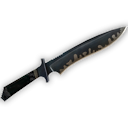
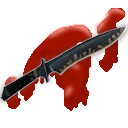
Gameplay Update 1.14
-Added Shotgun Blast spell
	-Shoots 5 bullets in a spread, each bullet does a maximum of 20
-Units now start following move cooldowns
-Buffed Dio's spell cast rate
-Changed Knife Throw and Knife Volley's icons
	-Added blood in the background
-Increased the Knife's projectile speed from 18 to 20
-Reduced Knife Volley's total knife throw count by 3 (1 in each row)
-Bleeding from knives' slow reduced from 10% to 5%
-Fixed Time Dilation applying the wrong amount of speed bonus to units
-Increased the speed of the Vulcan projectile from 24 to 28

Non-gameplay changes:
-Projectiles now accept non-integer vectors as velocity
-Minor text fixes
	-But actually fixed an issue where if the first word in a text exceeded
the size of the box it was in it would crash
-Added a particle effect to Vampiric Slash that makes it look like it's
stealing life

diff --git a/SpellWars/src/unit/Dio.java b/SpellWars/src/unit/Dio.java
@@ -14,7 +14,7 @@ public class Dio extends Unit {
 	public static final double HP_PER_LEVEL = 75;
 	public static final double SPEED = 1.2;
 	public static final double SPEED_PER_LEVEL = 0.10;
-	public static final int MOVES_PER_FIRE = 10;
+	public static final int MOVES_PER_FIRE = 9;
 	public static final int MOVES_VARIATION = 5;
 	public static final float FIRE_FOLLOW_CHANCE = 0.5f;
 	public static final float COOLDOWN_MULT_PER_LEVEL = 0.99f;
@@ -84,6 +84,7 @@ public class Dio extends Unit {
 				this.aimAtTrackedUnit();
 				this.castSpell(new ZaWarudo(this));
 				this.zaWarudoTimer = (float)(ZA_WARUDO_COOLDOWN * Math.pow(COOLDOWN_MULT_PER_LEVEL, this.level)) + ZaWarudo.STOP_TIME;
+				this.knifeThrowTimer = 0;
 			}
 		} else {
 			if(this.knifeThrowTimer <= 0 && Math.random() < KNIFE_THROW_CHANCE_ZA_WARUDO) {
@@ -98,6 +99,7 @@ public class Dio extends Unit {
 			}
 			else if(Math.random() < ZA_WARUDO_FOLLOW_CHANCE) {
 				this.aimAtTrackedUnit();
+				this.putMoveCooldown();
 			}
 		}
 		if(this.moves <= 0) {
@@ -107,7 +109,7 @@ public class Dio extends Unit {
 			this.castSpell(SpellSelector.getRandomSpell(this));
 			this.refreshMoves();
 		} else {
-			this.moveRandom4(false, false, true, true, true, false);
+			this.moveRandom4(true, false, true, true, true, false);
 		}
 	}
 	@Override
@@ -150,23 +152,23 @@ public class Dio extends Unit {
 		if(this.unitToTrack != null) {
 			if(this.unitToTrack.gridLoc.y < this.gridLoc.y) { //move up
 				if(this.canMoveToLoc(Point.add(this.gridLoc, new Point(0, -1)))) {
-					this.move(GameMap.ID_UP, false, false, true, true, true, false);
+					this.move(GameMap.ID_UP, true, false, true, true, true, false);
 				} else if(this.canMoveToLoc(Point.add(this.gridLoc, new Point(-1, -1)))) { //look into the future, see if there's obstruction
-					this.move(GameMap.ID_LEFT, false, false, true, true, true, false); //move off to the side
+					this.move(GameMap.ID_LEFT, true, false, true, true, true, false); //move off to the side
 				} else if(this.canMoveToLoc(Point.add(this.gridLoc, new Point(1, -1)))) {
-					this.move(GameMap.ID_RIGHT, false, false, true, true, true, false);
+					this.move(GameMap.ID_RIGHT, true, false, true, true, true, false);
 				} else {
-					this.moveRandom4(false, false, true, true, true, false);
+					this.moveRandom4(true, false, true, true, true, false);
 				}
 			} else if(this.unitToTrack.gridLoc.y > this.gridLoc.y) { //move down
 				if(this.canMoveToLoc(Point.add(this.gridLoc, new Point(0, 1)))) {
-					this.move(GameMap.ID_DOWN, false, false, true, true, true, false);
+					this.move(GameMap.ID_DOWN, true, false, true, true, true, false);
 				} else if(this.canMoveToLoc(Point.add(this.gridLoc, new Point(-1, 1)))) { //look into the future, see if there's obstruction
-					this.move(GameMap.ID_LEFT, false, false, true, true, true, false); //move off to the side
+					this.move(GameMap.ID_LEFT, true, false, true, true, true, false); //move off to the side
 				} else if(this.canMoveToLoc(Point.add(this.gridLoc, new Point(1, 1)))) {
-					this.move(GameMap.ID_RIGHT, false, false, true, true, true, false);
+					this.move(GameMap.ID_RIGHT, true, false, true, true, true, false);
 				} else {
-					this.moveRandom4(false, false, true, true, true, false);
+					this.moveRandom4(true, false, true, true, true, false);
 				}
 			}
 		}

diff --git a/SpellWars/src/spell/VampiricSlash.java b/SpellWars/src/spell/VampiricSlash.java
@@ -60,7 +60,8 @@ public class VampiricSlash extends Spell {
 			for(int x = 1; x <= length; x++) {
 				Point slashLoc = Point.add(this.owner.gridLoc, Point.add(new Point(0, y), Point.scale(GameMap.getFuturePoint(new Point(), (char)this.owner.direction), x)));
 				if(this.getMap().pointIsInGrid(slashLoc) && this.getMap().getPanelAt(slashLoc).unitStandingOnPanel != null && this.getMap().getPanelAt(slashLoc).unitStandingOnPanel.teamID != this.owner.teamID) {
-					this.getMap().getPanelAt(slashLoc).unitStandingOnPanel.doDamage(this.damage * this.owner.finalDamageModifier);
+					Unit target = this.getMap().getPanelAt(slashLoc).unitStandingOnPanel;
+					target.doDamage(this.damage * this.owner.finalDamageModifier);
 					this.owner.doDamage(-this.damage * this.owner.finalDamageModifier);
 					ParticleEmitter pe = new ParticleEmitter(Point.add(this.owner.getLoc(), new Point(0, -this.owner.getDrawHeight())), EmitterTypes.CIRCLE_DIRECTION, "res/particle_heal.png", true, /*point, emitter type, image path, alphaDecay*/
 							0.4f, 0.6f, /*particle start scale*/
@@ -71,6 +72,18 @@ public class VampiricSlash extends Spell {
 							1000, 1250, /*min and max launch speed*/
 							0, 3, /*emitter lifetime, emission rate (if emitter lifetime is 0, then it becomes instant and emission rate becomes number of particles)*/
 							0, 50, 90, 0); /*keyvalues*/
+					this.getMap().addParticleEmitter(pe);
+					float direction = (float)Point.getDirectionDeg(Point.add(target.getLoc(), new Point(0, -target.getDrawHeight())), Point.add(this.owner.getLoc(), new Point(0, -this.owner.getDrawHeight())));
+					float distance = (float)Point.getDistance(Point.add(target.getLoc(), new Point(0, -target.getDrawHeight())), Point.add(this.owner.getLoc(), new Point(0, -this.owner.getDrawHeight())));
+					pe = new ParticleEmitter(Point.add(target.getLoc(), new Point(0, -target.getDrawHeight())), EmitterTypes.CIRCLE_DIRECTION, "res/particle_genericRed.png", true, /*point, emitter type, image path, alphaDecay*/
+							7.2f, 7.2f, /*particle start scale*/
+							2.4f, 2.4f, /*particle end scale*/
+							0.5f, /*drag*/
+							0, 0, /*rotational velocity*/
+							ANIMATION_DURATION, ANIMATION_DURATION, /*min and max lifetime*/
+							distance / ANIMATION_DURATION, distance / ANIMATION_DURATION, /*min and max launch speed*/
+							0, 3, /*emitter lifetime, emission rate (if emitter lifetime is 0, then it becomes instant and emission rate becomes number of particles)*/
+							0, 50, direction, 0); /*keyvalues*/
 					this.getMap().addParticleEmitter(pe);
 				}
 			}

diff --git a/SpellWars/src/unit/Mei.java b/SpellWars/src/unit/Mei.java
@@ -77,7 +77,7 @@ public class Mei extends Unit {
 	public void onThink() {
 		this.trackUnit();
 		if(this.state == 1) {
-			this.moveRandom4(false, false, true, true, true, false);
+			this.moveRandom4(true, false, true, true, true, false);
 			if(this.normalSpellTimer <= 0 && Math.random() < NORMAL_SPELL_CHANCE) {
 				this.castSpell(SpellSelector.getRandomSpell(this));
 				this.normalSpellTimer = (float)(NORMAL_SPELL_COOLDOWN * Math.pow(COOLDOWN_MULT_PER_LEVEL, this.level));
@@ -176,23 +176,23 @@ public class Mei extends Unit {
 		if(this.unitToTrack != null) {
 			if(this.unitToTrack.gridLoc.y < this.gridLoc.y) { //move up
 				if(this.canMoveToLoc(Point.add(this.gridLoc, new Point(0, -1)))) {
-					this.move(GameMap.ID_UP, false, false, true, true, true, false);
+					this.move(GameMap.ID_UP, true, false, true, true, true, false);
 				} else if(this.canMoveToLoc(Point.add(this.gridLoc, new Point(-1, -1)))) { //look into the future, see if there's obstruction
-					this.move(GameMap.ID_LEFT, false, false, true, true, true, false); //move off to the side
+					this.move(GameMap.ID_LEFT, true, false, true, true, true, false); //move off to the side
 				} else if(this.canMoveToLoc(Point.add(this.gridLoc, new Point(1, -1)))) {
-					this.move(GameMap.ID_RIGHT, false, false, true, true, true, false);
+					this.move(GameMap.ID_RIGHT, true, false, true, true, true, false);
 				} else {
-					this.moveRandom4(false, false, true, true, true, false);
+					this.moveRandom4(true, false, true, true, true, false);
 				}
 			} else if(this.unitToTrack.gridLoc.y > this.gridLoc.y) { //move down
 				if(this.canMoveToLoc(Point.add(this.gridLoc, new Point(0, 1)))) {
-					this.move(GameMap.ID_DOWN, false, false, true, true, true, false);
+					this.move(GameMap.ID_DOWN, true, false, true, true, true, false);
 				} else if(this.canMoveToLoc(Point.add(this.gridLoc, new Point(-1, 1)))) { //look into the future, see if there's obstruction
-					this.move(GameMap.ID_LEFT, false, false, true, true, true, false); //move off to the side
+					this.move(GameMap.ID_LEFT, true, false, true, true, true, false); //move off to the side
 				} else if(this.canMoveToLoc(Point.add(this.gridLoc, new Point(1, 1)))) {
-					this.move(GameMap.ID_RIGHT, false, false, true, true, true, false);
+					this.move(GameMap.ID_RIGHT, true, false, true, true, true, false);
 				} else {
-					this.moveRandom4(false, false, true, true, true, false);
+					this.moveRandom4(true, false, true, true, true, false);
 				}
 			}
 		}

diff --git a/SpellWars/src/spell/TimeDilation.java b/SpellWars/src/spell/TimeDilation.java
@@ -88,18 +88,18 @@ public class TimeDilation extends Spell {
 		for(Unit u : this.getMap().getUnits()) {
 			if(!u.hasStatusEffect(StatusTimeDilation.ID)) {
 				if(u.teamID == this.owner.teamID) {
-					u.addStatusEffect(new StatusTimeDilation(u, ALLIED_SPEED_MULT * (float)Math.pow(StatusTimeDilation.SPEED_DECAY_PER_INTERVAL, (tickTimer/StatusTimeDilation.UPDATE_INTERVAL)), INTERVAL - tickTimer, 1));
+					u.addStatusEffect(new StatusTimeDilation(u, (ALLIED_SPEED_MULT - 1) * (float)Math.pow(StatusTimeDilation.SPEED_DECAY_PER_INTERVAL, (tickTimer/StatusTimeDilation.UPDATE_INTERVAL)) + 1, INTERVAL - tickTimer, 1));
 				} else {
-					u.addStatusEffect(new StatusTimeDilation(u, ENEMY_SPEED_MULT * (float)Math.pow(StatusTimeDilation.SPEED_DECAY_PER_INTERVAL, (tickTimer/StatusTimeDilation.UPDATE_INTERVAL)), INTERVAL - tickTimer, 1));
+					u.addStatusEffect(new StatusTimeDilation(u, (ENEMY_SPEED_MULT - 1) * (float)Math.pow(StatusTimeDilation.SPEED_DECAY_PER_INTERVAL, (tickTimer/StatusTimeDilation.UPDATE_INTERVAL)) + 1, INTERVAL - tickTimer, 1));
 				}
 			}
 		}
 		for(Projectile p : this.getMap().getProjectiles()) {
 			if(!p.hasStatusEffect(StatusTimeDilation.ID)) {
 				if(p.teamID == this.owner.teamID) {
-					p.addStatusEffect(new StatusTimeDilation(p, ALLIED_SPEED_MULT * (float)Math.pow(StatusTimeDilation.SPEED_DECAY_PER_INTERVAL, (tickTimer/StatusTimeDilation.UPDATE_INTERVAL)), INTERVAL - tickTimer, 1));
+					p.addStatusEffect(new StatusTimeDilation(p, (ALLIED_SPEED_MULT - 1) * (float)Math.pow(StatusTimeDilation.SPEED_DECAY_PER_INTERVAL, (tickTimer/StatusTimeDilation.UPDATE_INTERVAL)) + 1, INTERVAL - tickTimer, 1));
 				} else {
-					p.addStatusEffect(new StatusTimeDilation(p, ENEMY_SPEED_MULT * (float)Math.pow(StatusTimeDilation.SPEED_DECAY_PER_INTERVAL, (tickTimer/StatusTimeDilation.UPDATE_INTERVAL)), INTERVAL - tickTimer, 1));
+					p.addStatusEffect(new StatusTimeDilation(p, (ENEMY_SPEED_MULT - 1) * (float)Math.pow(StatusTimeDilation.SPEED_DECAY_PER_INTERVAL, (tickTimer/StatusTimeDilation.UPDATE_INTERVAL)) + 1, INTERVAL - tickTimer, 1));
 				}
 			}
 		}

diff --git a/SpellWars/src/spell/ShotgunBlast.java b/SpellWars/src/spell/ShotgunBlast.java
@@ -1,0 +1,47 @@
+package spell;
+
+import mechanic.GameMap;
+import mechanic.Point;
+import particlesystem.EmitterTypes;
+import particlesystem.ParticleEmitter;
+import projectile.Projectile;
+import projectile.ShotgunBlastProjectile;
+import unit.Unit;
+
+public class ShotgunBlast extends Spell {
+	static final Point[] MOVEVEC = {new Point(1, 0),
+									new Point(1, 2.0/3),
+									new Point(1, -2.0/3),
+									new Point(1, 1.0/5),
+									new Point(1, -1.0/5)};
+	public static final double DAMAGE = 20;
+	public static final double DAMAGE_REDUCTION_PER_THINK = 5;
+	public static final double SPEED = 18;
+	public ShotgunBlast(Unit owner) {
+		super(owner, 0, 0.5f, "Shotgun Blast", "Shoots multiple bullets in a spread, bullets deal less damage the farther they go", "res/spell/shotgunblast.png", false);
+	}
+	public void onActivate() {
+		for(Point vec : MOVEVEC) {
+			Point moveVec = Point.clone(vec);
+			if(this.owner.direction == GameMap.ID_LEFT) {
+				moveVec.x *= -1;
+			}
+			Projectile p = new ShotgunBlastProjectile(DAMAGE * this.owner.finalDamageModifier, SPEED / Point.getDistance(new Point(), moveVec), moveVec, this.owner.gridLoc, this.owner.teamID, DAMAGE_REDUCTION_PER_THINK);
+			this.getMap().addGameElement(p);
+		}
+		float direction = 0;
+		if(this.owner.direction == GameMap.ID_LEFT) {
+			direction = 180;
+		}
+		ParticleEmitter pe = new ParticleEmitter(Point.add(this.owner.getLoc(), new Point(0, -28)), EmitterTypes.POINT_DIRECTION, "res/particle_genericWhite.png", false, //point/parent, emitter type, image path, alphaDecay
+				6.5f, 2.5f, //particle start scale
+				0.0f, 0.0f, //particle end scale
+				16.5f, //drag
+				0, 0, //rotational velocity
+				0.1f, 0.45f, //min and max lifetime
+				200, 12200, //min and max launch speed
+				0, 18, //emitter lifetime, emission rate (if emitter lifetime is 0, then it becomes instant and emission rate becomes number of particles, if emitter lifetime is -1, then it lasts forever)
+				direction, 40, 0, 0); //keyvalues
+		this.getMap().addParticleEmitter(pe);
+	}
+}

diff --git a/SpellWars/src/projectile/Projectile.java b/SpellWars/src/projectile/Projectile.java
@@ -228,9 +228,9 @@ public class Projectile extends GameElement {
 	}
 	public Point getGridLoc() {
 		if(1 - this.thinkTimer < 0) {
-			return this.gridLoc;
+			return Point.roundToNearestInteger(this.gridLoc);
 		} else if(1 - this.thinkTimer > 1) {
-			return this.futureLoc;
+			return Point.roundToNearestInteger(this.futureLoc);
 		} else {
 			return Point.roundToNearestInteger(Point.interpolate(this.gridLoc, this.futureLoc, 1 - this.thinkTimer));
 		}
@@ -336,7 +336,7 @@ public class Projectile extends GameElement {
 			default:
 				break;
 			}
-			Point futurepoint = Point.add(this.getGridLoc(), moveVec);
+			Point futurepoint = Point.add(this.futureLoc, moveVec); //this.futureLoc was once this.getGridLoc()
 			//if(this.getMap().pointIsInGrid(futurepoint)) {
 				this.futureLoc = futurepoint;
 				if(putCooldown) {
@@ -352,7 +352,7 @@ public class Projectile extends GameElement {
 	}
 	public void move(Point moveVec, boolean respectCooldown, boolean putCooldown) {
 		if(((respectCooldown && this.moveCooldown <= 0) || !respectCooldown) && !this.isPaused()) {
-			Point futurepoint = Point.add(this.getGridLoc(), moveVec);
+			Point futurepoint = Point.add(this.futureLoc, moveVec);
 			//if(this.getMap().pointIsInGrid(futurepoint)) {
 				this.futureLoc = futurepoint;
 				if(putCooldown) {

diff --git a/SpellWars/src/ui/SpellSelector.java b/SpellWars/src/ui/SpellSelector.java
@@ -35,6 +35,7 @@ import spell.RechargingBarrier;
 import spell.ReflectBarrier;
 import spell.Regenerate;
 import spell.SentryGun;
+import spell.ShotgunBlast;
 import spell.Spell;
 import spell.Stun;
 import spell.TestFireball;
@@ -393,11 +394,12 @@ public class SpellSelector extends UIElement {
 				new ElectroBolt(unit),
 				new Vulcan(unit),
 				new VampiricSlash(unit),
+				new ShotgunBlast(unit),
 		};
 		double[] weights = {0.45, //TRUMP WALL
-				0.4, //reflect barrier
+				0.3, //reflect barrier
 				0.55, //area grab
-				0.5, //recharging barrier
+				0.45, //recharging barrier
 				0.7, //time bomb
 				1.1, //forge spirit
 				0.75, //hell rain
@@ -423,6 +425,7 @@ public class SpellSelector extends UIElement {
 				1.0, //electro bolt
 				1.4, //vulcan
 				0.7, //vampiric slash
+				0.8, //shotgun blast
 		};
 		if(spells.length != weights.length) {
 			System.out.println("WARNING: SPELLS AND WEIGHTS MISMATCH");

diff --git a/SpellWars/src/projectile/ShotgunBlastProjectile.java b/SpellWars/src/projectile/ShotgunBlastProjectile.java
@@ -1,0 +1,22 @@
+package projectile;
+
+import mechanic.Point;
+
+public class ShotgunBlastProjectile extends Projectile {
+	double damageDecrease;
+	public ShotgunBlastProjectile(double damage, double speed, Point moveVec, Point gridLoc, int teamID, double damageDecrease) {
+		super(damage + damageDecrease, speed, moveVec, gridLoc, "res/particle_genericYellow.png", teamID, true, true, true);
+		this.setDrawHeight(45);
+		this.drawShadow = true;
+		this.setImageScale(3f);
+		this.setFlashPanel(false);
+		this.damageDecrease = damageDecrease;
+	}
+	@Override
+	public void onThink() {
+		this.changeDamage(-damageDecrease);
+		if(this.getDamage() <= 0) {
+			this.setRemove(true);
+		}
+	}
+}

diff --git a/SpellWars/src/ui/Text.java b/SpellWars/src/ui/Text.java
@@ -152,9 +152,11 @@ public class Text extends UIElement {
 					float lineWidth = (trimmedLine.length() * this.kerning) + this.letterWidth - this.kerning; //THE WIDTH (IN PIXELS) OF THE LINE
 					if(tempx > this.boxWidth || (i == this.text.length() - 1 && tempx + this.letterWidth > this.boxWidth)) {
 						tempx = -kerning; //TO BALANCE OUT THE SPACE
-						textLines.add(addbuffer);
-						addbuffer = "";
-						numLines++;
+						if(addbuffer.length() > 0) {
+							textLines.add(addbuffer);
+							addbuffer = "";
+							numLines++;
+						}
 					} else {
 						tempx += -kerning * (i - currWordIndex); //go back to start of word's position
 					}

diff --git a/SpellWars/src/spell/Vulcan.java b/SpellWars/src/spell/Vulcan.java
@@ -14,7 +14,7 @@ public class Vulcan extends Spell {
 	public static final float STUN_DURATION = 1f;
 	public static final int NUM_SHOTS = 5;
 	public static final float DURATION = 0.5f;
-	public static final double SPEED = 24;
+	public static final double SPEED = 28;
 	int shotsFired;
 	public Vulcan(Unit owner) {
 		super(owner, 0, DURATION, "Vulcan", "Shoot a rapid-fire volley of bullets, and if the enemy is casting, it deals extra damage and stuns", "res/spell/vulcan.png", false, true);

diff --git a/SpellWars/src/statuseffect/StatusBleed.java b/SpellWars/src/statuseffect/StatusBleed.java
@@ -9,7 +9,7 @@ public class StatusBleed extends StatusEffect {
 	public static final String ID = "bleed"; //for stacking
 	public static final float DURATION = 10;
 	public static final float DAMAGE_PER_SECOND = 1;
-	public static final float SPEED_MODIFIER = 0.9f;
+	public static final float SPEED_MODIFIER = 0.95f;
 	public StatusBleed(GameElement owner) {
 		super(owner, StackingProperty.STACKABLE_INDEPENDENT, ID, DURATION, 1);
 		this.setMoveSpeedModifier(SPEED_MODIFIER);

diff --git a/SpellWars/src/projectile/KnifeProjectile.java b/SpellWars/src/projectile/KnifeProjectile.java
@@ -8,7 +8,7 @@ import statuseffect.StatusBleed;
 import unit.Unit;
 
 public class KnifeProjectile extends Projectile {
-	public static final double SPEED = 18;
+	public static final double SPEED = 20;
 	public KnifeProjectile(double damage, int direction, Point gridLoc, int teamID) {
 		super(damage, SPEED, direction, gridLoc, "res/projectile/knife.png", teamID, true, true, true);
 		this.setDrawHeight(40);
